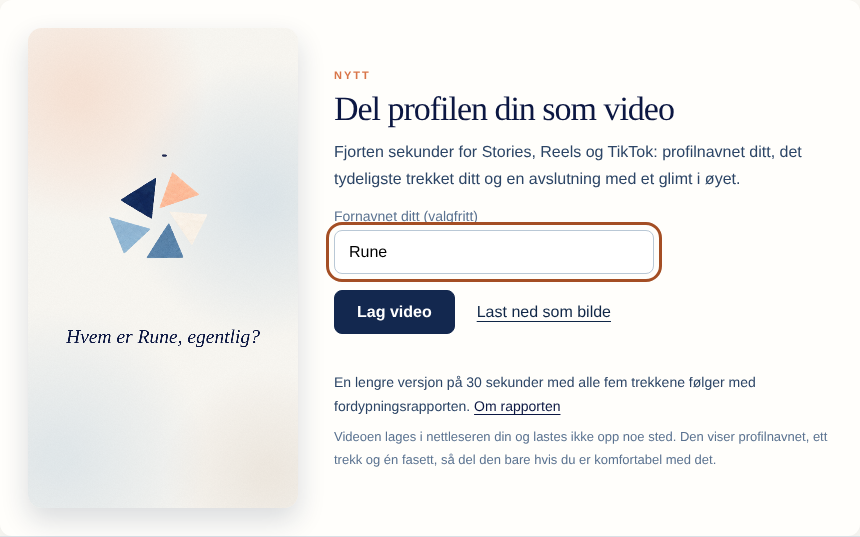
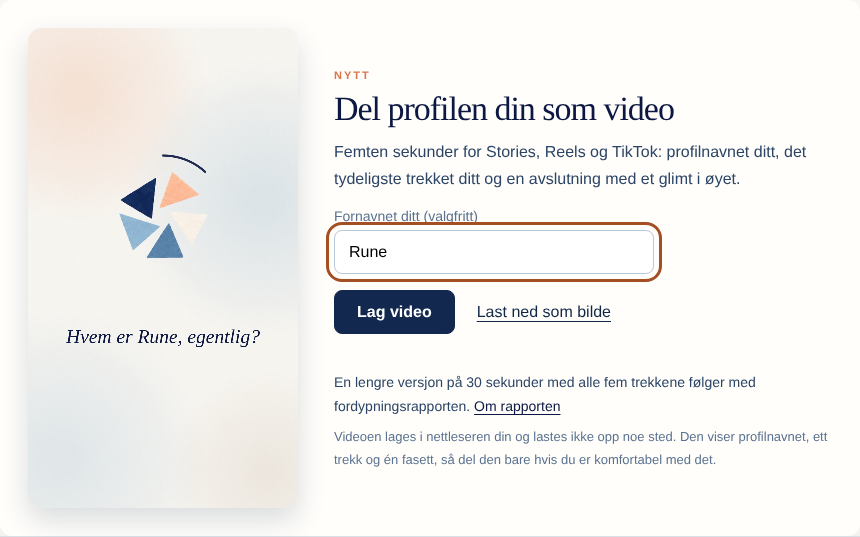
Softer end-card line and a button-style address on the videos
'Hvordan ser din profil ut? Finn ut gratis' replaces 'Ta den gratis
Big Five-testen'. The site address is drawn as a button on the end card
and the still image, and the share text carries the landing page link.

Claude-Session: https://claude.ai/code/session_01WFtARtXc6zQq5Mw3hHGuVN

diff --git a/app/share-video.js b/app/share-video.js
@@ -71,8 +71,9 @@ export function videoScript(domains, {language, firstName = '', name, site = '',
     stat,
     facet: facet ? {eyebrow: tr('The facet that stands out most', 'Fasetten som skiller seg mest ut'), name: facet.name, caption: tr(`Percentile ${pct(facet)} · ${name(facetTrait)}`, `Persentil ${pct(facet)} · ${name(facetTrait)}`), percentile: pct(facet), color: traitColors[facetTrait.code]} : null,
     closer: pick(named.traits.length ? closers[trait.code][band] : closers.balanced, language),
-    end: tr("What's yours?", 'Hva er din?'),
-    cta: tr('Take the free Big Five test', 'Ta den gratis Big Five-testen'),
+    end: tr("What's your profile?", 'Hvordan ser din profil ut?'),
+    cta: tr('Find out for free', 'Finn ut gratis'),
+    button: site || 'Fem',
     site,
     note: tr('Self-reflection, not a diagnosis.', 'Selvrefleksjon, ikke en diagnose.'),
     ruleId: `share-video-v1/${long ? 'long' : 'short'}/${trait.code}${band[0]}/${named.ruleId}`
@@ -258,9 +259,9 @@ const scenes = {
   end(ctx, lt, d, a, s, imgs) {
     const k = ease(span(lt, 0, .5));
     ctx.save(); ctx.globalAlpha = k; logo(ctx, imgs, W / 2, 700, .95, span(lt, -.1, .8), span(lt, .2, 1)); ctx.restore();
-    text(ctx, s.end, 1150, {size: 110, alpha: k});
-    text(ctx, s.cta, 1260, {size: 50, font: SANS, alpha: k});
-    if (s.site) text(ctx, s.site, 1340, {size: 46, font: SANS, weight: '700', color: '#d9764a', alpha: k});
+    text(ctx, s.end, 1150, {size: 84, alpha: k, maxLines: 2, lh: 1.1, max: W - 100});
+    text(ctx, s.cta, 1330, {size: 54, font: SANS, alpha: k});
+    pill(ctx, s.button, 1470, k * ease(span(lt, .3, .8)));
     text(ctx, s.note, H - 130, {size: 36, font: SANS, color: MUTED, alpha: k});
   }
 };
@@ -286,22 +287,34 @@ export function drawFrame(ctx, t, s, imgs) {
   const closer = at('closer');
   footer(ctx, imgs, t > name.start + .1 && t < closer.end ? Math.min(ease(span(t, name.start + .1, name.start + .7)), 1 - span(t, closer.end - .4, closer.end)) : 0);
 }
+// A button-like address on the end card. A video cannot hold a link, so the address is what people type or search for.
+function pill(ctx, label, y, a, scale = 1) {
+  if (a <= 0) return;
+  ctx.save(); ctx.globalAlpha *= a;
+  let size = 50 * scale; ctx.font = `700 ${size}px ${SANS}`;
+  while (ctx.measureText(label).width > W - 260 && size > 22) {size -= 2; ctx.font = `700 ${size}px ${SANS}`;}
+  const w = ctx.measureText(label).width + 110 * scale, h = 104 * scale;
+  ctx.fillStyle = INK; roundRect(ctx, W / 2 - w / 2, y - h / 2, w, h, h / 2); ctx.fill();
+  ctx.fillStyle = '#fff'; ctx.textAlign = 'center'; ctx.textBaseline = 'middle'; ctx.fillText(label, W / 2, y + 2);
+  ctx.restore();
+}
 function roundRect(ctx, x, y, w, h, r) {ctx.beginPath(); ctx.moveTo(x + r, y); ctx.arcTo(x + w, y, x + w, y + h, r); ctx.arcTo(x + w, y + h, x, y + h, r); ctx.arcTo(x, y + h, x, y, r); ctx.arcTo(x, y, x + w, y, r); ctx.closePath();}
 
 /** A still image that carries the same content: name, the standout number and the closing line. */
 export function drawPoster(ctx, s, imgs) {
   paper(ctx, 3, s.color);
-  logo(ctx, imgs, W / 2, 300, .55, 1, 1);
-  text(ctx, s.intro, 600, {size: 56, color: MUTED});
-  const b = text(ctx, s.name, 730, {size: 112, maxLines: 3, lh: 1.05});
+  logo(ctx, imgs, W / 2, 250, .55, 1, 1);
+  text(ctx, s.intro, 540, {size: 56, color: MUTED});
+  const b = text(ctx, s.name, 670, {size: 112, maxLines: 3, lh: 1.05});
   brush(ctx, 280, 800, b + 60, '#f6b18d', 1);
-  const y = b + 240;
+  const y = b + 200;
   text(ctx, s.stat.above, y, {size: 56});
-  text(ctx, String(s.stat.number), y + 220, {size: 230});
-  text(ctx, s.stat.below, y + 300, {size: 50, color: MUTED});
-  if (s.facet) text(ctx, `${s.facet.name} · ${s.facet.caption.split(' · ')[0].toLowerCase()}`, y + 410, {size: 44, font: SANS, color: MUTED});
-  text(ctx, s.closer, H - 330, {size: 60, style: 'italic', maxLines: 3});
-  text(ctx, `Fem · ${s.end}${s.site ? `  ${s.site}` : ''}`, H - 110, {size: 40, font: SANS, color: INK});
+  text(ctx, String(s.stat.number), y + 190, {size: 200});
+  text(ctx, s.stat.below, y + 262, {size: 50, color: MUTED});
+  if (s.facet) text(ctx, `${s.facet.name} · ${s.facet.caption.split(' · ')[0].toLowerCase()}`, y + 352, {size: 44, font: SANS, color: MUTED});
+  text(ctx, s.closer, H - 400, {size: 60, style: 'italic', maxLines: 2});
+  text(ctx, `${s.end} ${s.cta}`, H - 200, {size: 40, font: SANS, color: INK});
+  pill(ctx, s.button, H - 110, 1, .8);
 }
 
 /** Best container this browser can record; MP4 first because Instagram and TikTok prefer it. */

diff --git a/app/ui.js b/app/ui.js
@@ -142,7 +142,7 @@ function initShare(){
       status.textContent=tr('Your video is ready.','Videoen er klar.')+(ext==='webm'?' '+tr('Some apps only accept MP4. If the upload fails, use the image.','Noen apper tar bare imot MP4. Hvis opplastingen feiler, bruk bildet.'):'');}
     catch{status.textContent=tr('The video could not be made. Keep this tab open while it records, or download the image instead.','Videoen kunne ikke lages. Hold fanen åpen mens den tas opp, eller last ned bildet i stedet.');}
     recording=false;make.disabled=false;input.disabled=false;play(true);});
-  send.addEventListener('click',()=>{if(file)navigator.share({files:[file],title:script().name}).catch(()=>{});});
+  send.addEventListener('click',()=>{if(file)navigator.share({files:[file],title:script().name,text:`${script().end} ${script().cta}: ${location.origin}${location.pathname}`}).catch(()=>{});});
   document.querySelector('#share-still').addEventListener('click',()=>{const c=document.createElement('canvas');c.width=canvas.width;c.height=canvas.height;drawPoster(c.getContext('2d'),script(),imgs);c.toBlob(b=>{const a=document.createElement('a');a.href=URL.createObjectURL(b);a.download=tr('fem-profile','fem-profil')+'.png';a.click();setTimeout(()=>URL.revokeObjectURL(a.href),4000);},'image/png');});
 }
 function sendProfile(event){

diff --git a/docs/decisions.md b/docs/decisions.md
@@ -180,7 +180,7 @@ Registrert fra samtalen 11. oktober 2026. «Valgt» nedenfor viser brukerens utt
 ## Delbar profilvideo 2026-10-13
 - Rune ønsket en kort video i gratisprofilen som gjør at folk vil dele profilen: en krok med navnet, én interessant persentil eller fasett, og noe morsomt uten å bli for spøkefullt. Målet er å kombinere morsomt, interessant og seriøst.
 - Boksen «Del profilen din som video» står under «Et første blikk». Videoen er 15 sekunder, stående 9:16 (1080 × 1920) for Stories, Reels og TikTok, og tegnes og tas opp i nettleseren (canvas og MediaRecorder). Ingenting lastes opp. MP4 velges når nettleseren kan, ellers WebM. Del-knappen bruker telefonens delingsmeny når den støtter filer, og ellers kan man laste ned videoen. Et stillbilde (PNG) med samme innhold kan lastes ned i stedet.
-- Innhold: krok («Hvem er Rune, egentlig?», eller «120 spørsmål senere …» uten fornavn; Rune ba om 1,5 sekunder lengre åpningsscene, så den varer 4 sekunder), profilnavnet, trekket profilnavnet bygger på som «Mer nysgjerrig enn 92 av 100 personer» med 100 prikker, fasetten som skiller seg mest ut (den er allerede åpen gratis), én avslutningslinje og sluttkortet «Hva er din?» med «Selvrefleksjon, ikke en diagnose.»
+- Innhold: krok («Hvem er Rune, egentlig?», eller «120 spørsmål senere …» uten fornavn; Rune ba om 1,5 sekunder lengre åpningsscene, så den varer 4 sekunder), profilnavnet, trekket profilnavnet bygger på som «Mer nysgjerrig enn 92 av 100 personer» med 100 prikker, fasetten som skiller seg mest ut (den er allerede åpen gratis), én avslutningslinje og sluttkortet «Hvordan ser din profil ut? Finn ut gratis» med nettadressen som en knapp og «Selvrefleksjon, ikke en diagnose.» (Rune syntes «Ta den gratis Big Five-testen» hørtes hardt ut). En video kan ikke ha en klikkbar knapp, så adressen vises som en knapp i bildet, og lenken til forsiden (uten svarene) følger med i delingsteksten.
 - Fornavnet er valgfritt, skrives inn av brukeren og brukes bare i videoen. Lave skårer beskrives ved sin egen pol («Roligere enn 92 av 100»), aldri som mangel. Avslutningslinjene er vennlige i begge retninger og hører til samme trekk som substantivet i profilnavnet (app/share-video.js, regel-id share-video-v1/…). De er redaksjonell tekst og skal med i den faglige gjennomgangen.
 - Ved redusert bevegelse viser forhåndsvisningen et stillbilde; selve videoen kan fortsatt lages.
 - Rune ønsket i tillegg en lengre video på rundt 30 sekunder i fordypningsrapporten. «Del rapporten din som video» står i oversikten etter «Din profil på ett blikk». Den lange versjonen (30 s) legger til alle fem trekkene med persentil, kombinasjonssetningen og «En mulig styrke» for trekket profilnavnet bygger på. Gratisversjonen viser ikke disse. Begge bygger på samme scener i app/share-video.js (timeline(), regel-id share-video-v1/short|long/…). Boksen skjules i PDF.
